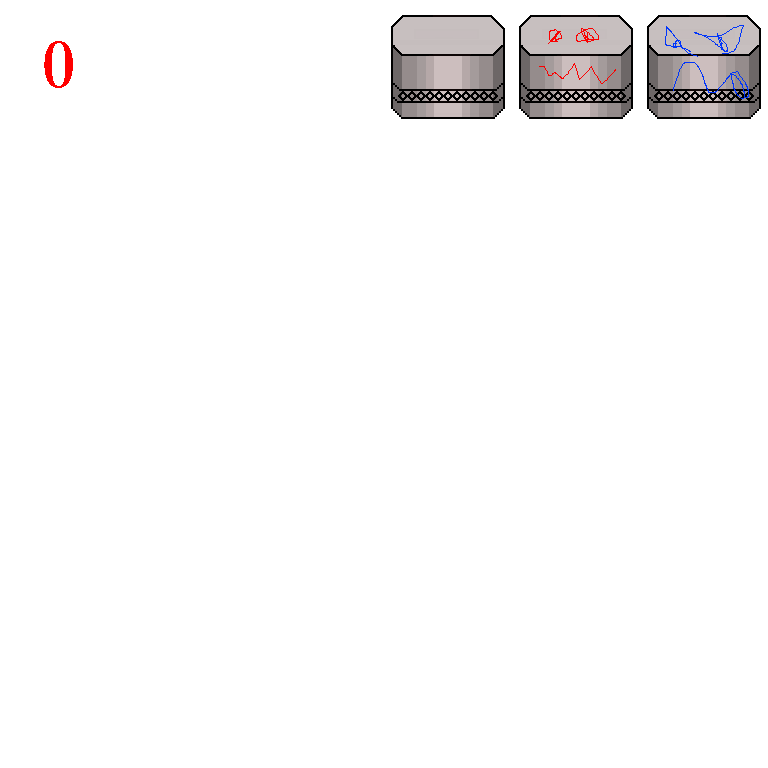
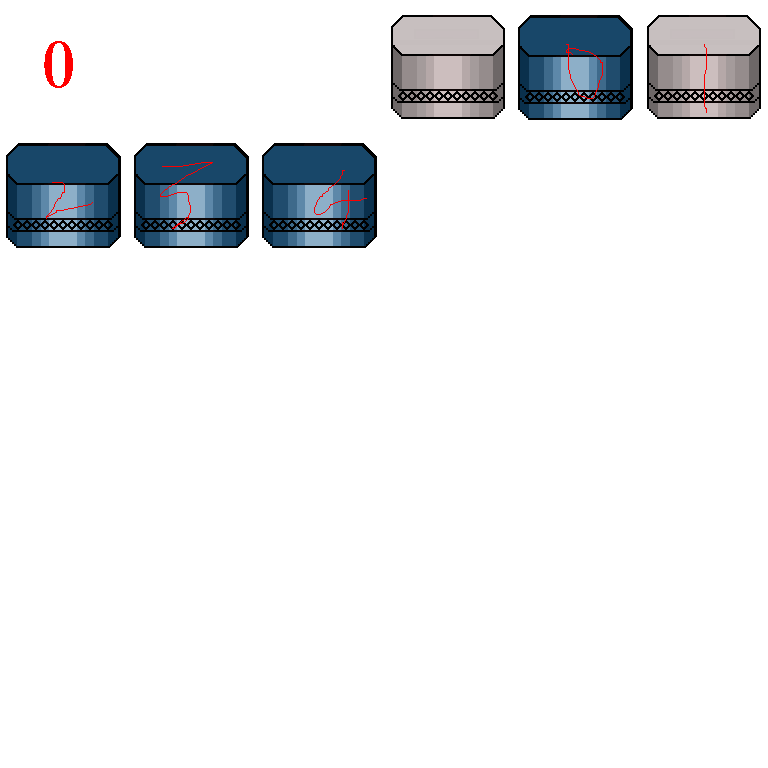
当たり判定を短く書いた、ステージが変わってアローも変わるようにした

diff --git a/LoadFile.h b/LoadFile.h
@@ -17,6 +17,12 @@ enum MapChip
 	CARDBORD,
 	TRUCK,
 	ROCK,
+	ROCK2,
+	ROCK3,
+	ROCK4,
+	ROCK5,
+	ROCK6,
+	END
 };
 
 class LoadFile
@@ -52,7 +58,7 @@ public:
 	int GetMapX() { return mapX_; }
 	int GetCommandNum() { return commandNum; }
 	int GetObjectNum() { return objectNum; }
-	void LoadCommand(const char** c_commandName);
+	void LoadCommand(const char* c_commandName);
 	void LoadMap(int mapX, int mapY, const char** Name);
 
 	int mapDate[stageNum][8][8];

diff --git a/SelectSetObject.h b/SelectSetObject.h
@@ -44,5 +44,7 @@ private:
 	int selectWhatObj[5] = { 0 };
 	Box selectBox_[5];
 	bool isSelect_ = false;
+
+	int enemy = 1;
 };
 
